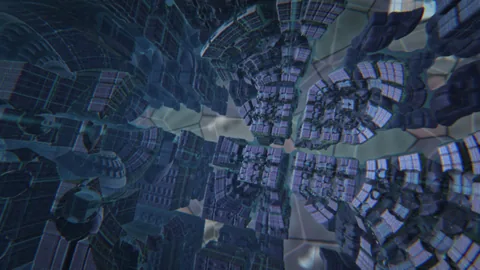
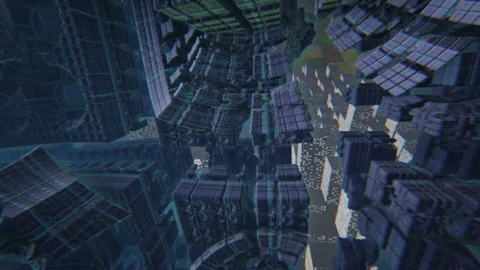
docs: round-4 decisions (Voyage wide shots and land, Warp slow motion)

diff --git a/DOCS/16-VISUAL-DIRECTION.md b/DOCS/16-VISUAL-DIRECTION.md
@@ -99,8 +99,8 @@ Registry order: **Ink, Silk, Wisp, Warp, Voyage**; Aura and Halo stay in the hid
 | **Ink** (Glow, Marble, Sumi) | Stable fluids on a periodic world; Depth surface or Flat | Mid presence → ink drizzle; intensity → turbulence, camera speed | Every 4th kick blooms all anchors | Bass → bloom from the next beat anchor (stable composition, fixed colour per anchor); mids → satellites; highs → sparkle around anchors | Every anchor blooms, new layout; camera lurch |
 | **Silk** | GPU particles, density accumulation | Presence → active threads; intensity → flow speed | — | Bass → shockwave, thread brightening | Build gathers a knot → drop bursts into an eight-spoke starburst; inversion cut |
 | **Wisp** | GPU particles + three CPU agents in a fixed view (zoom only) | Intensity → agent speed | — | Bass → smoke rings, flame flare; mids → swerves | Agents surge |
-| **Warp** | GPU particle streaks | Slow intensity → cruise speed; sections set the pace | Speed surge | Bass → streak glow | Hyperspace jump |
-| **Voyage** | Mandelbox raymarch, CPU-planned spline flight, analytic cylinder landscape, half-res + temporal upscale | Presence → slow fold params and melt; intensity → flight speed, glow | Camera roll sway + FOV breath (the world never moves on beats) | Bass → emissive veins, slight chromatic split; highs → iridescence | Surge + wide-angle punch + barrel roll |
+| **Warp** | GPU particle streaks | Slow intensity → cruise speed; slow-motion in breakdowns and quiet intros, regular pace with the beat, builds accelerate | Speed surge | Bass → streak glow | Hyperspace jump |
+| **Voyage** | Mandelbox raymarch, CPU-planned spline flight, analytic cylinder landscape (fields, water, forests, cities), half-res + temporal upscale | Presence → fold params and melt; intensity → flight speed, glow; breakdowns fly out for wide shots | Camera roll sway + FOV breath; fractal corkscrew (the landscape never moves) | Bass → fold breath, emissive veins, slight chromatic split; highs → iridescence | Dive back in / surge + wide-angle punch + barrel roll |
 
 **Performance** (RX 7700S, 1080p, synced frame cost at the house-124 drop; budget 16.7 ms):
 

diff --git a/README.md b/README.md
@@ -16,8 +16,8 @@ Built with Rust, TypeScript, raw WebGL 2 and Tauri 2.
 - **Ink** (flagship): a real fluid simulation on a world several screens wide. Kicks bloom from a few stable anchor points, so you see the same spots pulse in time; mids feed a drizzle of ink, highs scatter sparkle, drops burst. **Depth** (default) turns the ink into a lit surface with a gliding camera (presets Glide, Horizon, Planet, Valley, Overhead; height, tilt and planet/bowl curvature); **Flat** looks straight down. Looks: **Glow**, **Marble** (two-tone marbling), **Sumi** (black ink on paper).
 - **Silk**: millions of particles drawn into flowing threads that light up on every kick; builds gather the threads into a knot and the drop bursts them into a starburst.
 - **Wisp**: three coloured flames darting through the dark, trailing smoke; bass hits blow smoke rings.
-- **Warp**: hyperspace streaks whose speed follows the song: near-still in silence, drifting in breakdowns, accelerating through builds, jumping at the drop.
-- **Voyage**: a flight through a raymarched 3D fractal hanging inside a vast curved landscape that rises around and over it. Space slowly melts; the camera sways on the beat and dives into a barrel roll on the drop.
+- **Warp**: hyperspace streaks whose speed follows the song: slow motion in breakdowns and quiet intros, regular pace with the beat, accelerating through builds, jumping at the drop.
+- **Voyage**: a flight through a raymarched 3D fractal hanging inside a vast curved world of fields, rivers and cities that rises around and over it. The fractal breathes and twists on the beat; breakdowns fly out for wide shots of the curve and the drop dives back in with a barrel roll.
 
 Responsiveness (Smooth → Punchy) changes how hard things move, never how much they flash; brightness stays steady and every deliberate flash goes through a limiter (at most three per second). Frame rate is capped at 60 by default (30 – 144 or max in Settings).
 

diff --git a/DOCS/SPRINT-LOG.md b/DOCS/SPRINT-LOG.md
@@ -1,3 +1,19 @@
+# Feedback round 4 — done
+
+Notes: "stable world" in Voyage meant only the backdrop; the backdrop looked like low-res pastel blocks; add wide shots so the curve can be seen, with buildings hanging off it; Warp needs slow-motion sections. Decided with Abdul: fractal fold breath + corkscrew back; wide shots in breakdowns (or after ~60 s at a calm moment) with a dive back on the drop; natural textures + modern clustered cities; Warp slow-mo in breakdowns and quiet intros.
+
+- [x] Warp slow-motion sections (D39)
+- [x] Voyage fractal beat reactions restored, backdrop stays still (D37)
+- [x] Voyage wide shots: planner-steered exit, vista drift, dive back on the drop (D38)
+- [x] Voyage land: fields, grass, forests, rock/snow, shores, water, clustered 3D cities (D38)
+- [x] Verified: Voyage and Warp on five tracks, sync 100%, flicker 0.6 / 1.3 swings/s, vista cost 4–8 ms Medium, live desktop app (Voyage wide shot during the breakdown)
+
+## Phase 2 (next, unchanged)
+- [ ] Silk Depth view (Depth/Flat toggle, Flat default; 2D path untouched)
+- [ ] Wisp Depth view (same rules)
+
+---
+
 # Feedback round 3 — done
 
 Abdul's notes after Phase 1: Silk's beat ripple/zoom overdid it on bass-heavy songs; Wisp drifted off screen and went blank on a second visit; Ink hit the beats but looked scattered; Voyage's backdrop reacted to beats and read as a thick dome, and the Kaleido drop replaced the best camera moment; Mosh still not good. Decided with him: remove Silk's ripple/zoom; Ink fixed anchors; Voyage thin curved world, stable on beats, drop = dive + barrel roll, beats = roll sway + FOV breath; scrap Mosh.

diff --git a/DOCS/DECISIONS.md b/DOCS/DECISIONS.md
@@ -125,3 +125,12 @@ The look depends on blue-night vs warm-star contrast. Night colours rotate by th
 
 ## D36 — Mosh removed
 After two rebuilds Mosh still did not hold up; removed. Saved settings move to Ink.
+
+## D37 — Voyage: only the backdrop is stable
+"Stable world" (D35) meant the backdrop only. The fractal's bass fold breath and alternating beat corkscrew are back (fractal space only); the landscape never moves on beats.
+
+## D38 — Voyage: wide shots and a detailed curved world
+**Decision:** breakdowns (or a calm moment after 60 s without one) steer the flight planner outward with a goal bias that relaxes its bound, so the camera flies out through an opening (cut after 12 s if no way out); it then eases into a slow drift outside the fractal looking down the cylinder axis. The drop dives back in (handover hidden in the dive and barrel roll); idle-triggered shots return after ~15 s. The landscape is analytic: strips of rectangular fields with crop rows and hedges, grass, forests, rock/snow ridges, shores, rippling water with sky reflection and sun glint, and clustered 3D tower blocks raymarched in a thin layer above the ground (cheap masks inside that loop; step budget per quality). Vista frames ~4–8 ms at 1080p Medium. NaN guards in the march and the temporal resolve.
+
+## D39 — Warp: slow-motion sections
+Breakdowns, and intros while intensity is still low, drift at 10% pace (streaks shrink to near-hanging stars); regular pace once the beat is in; builds accelerate; drops jump. Pace changes settle in ~2 s.
